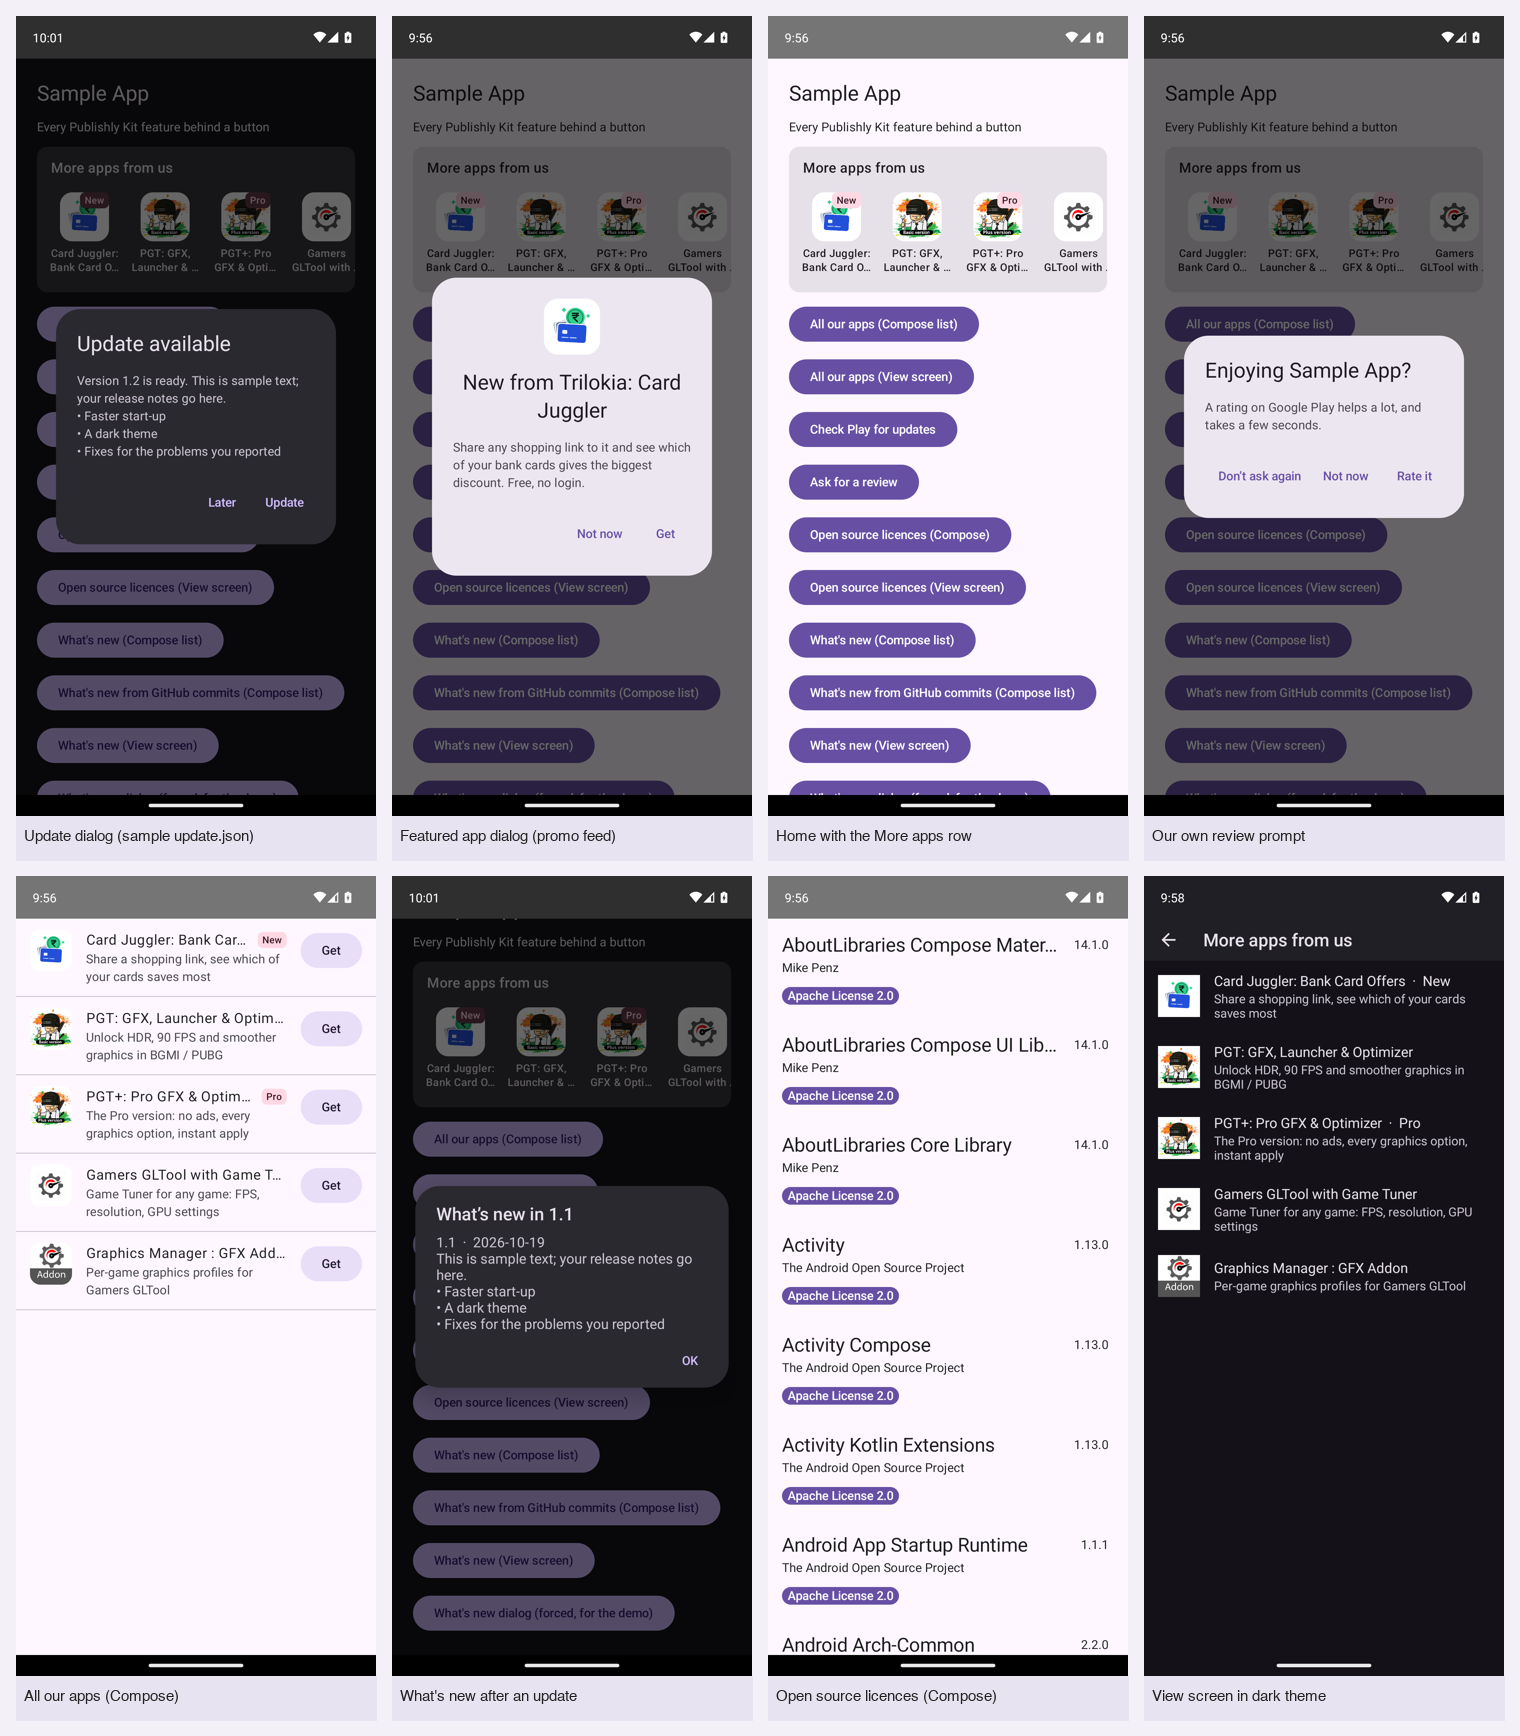
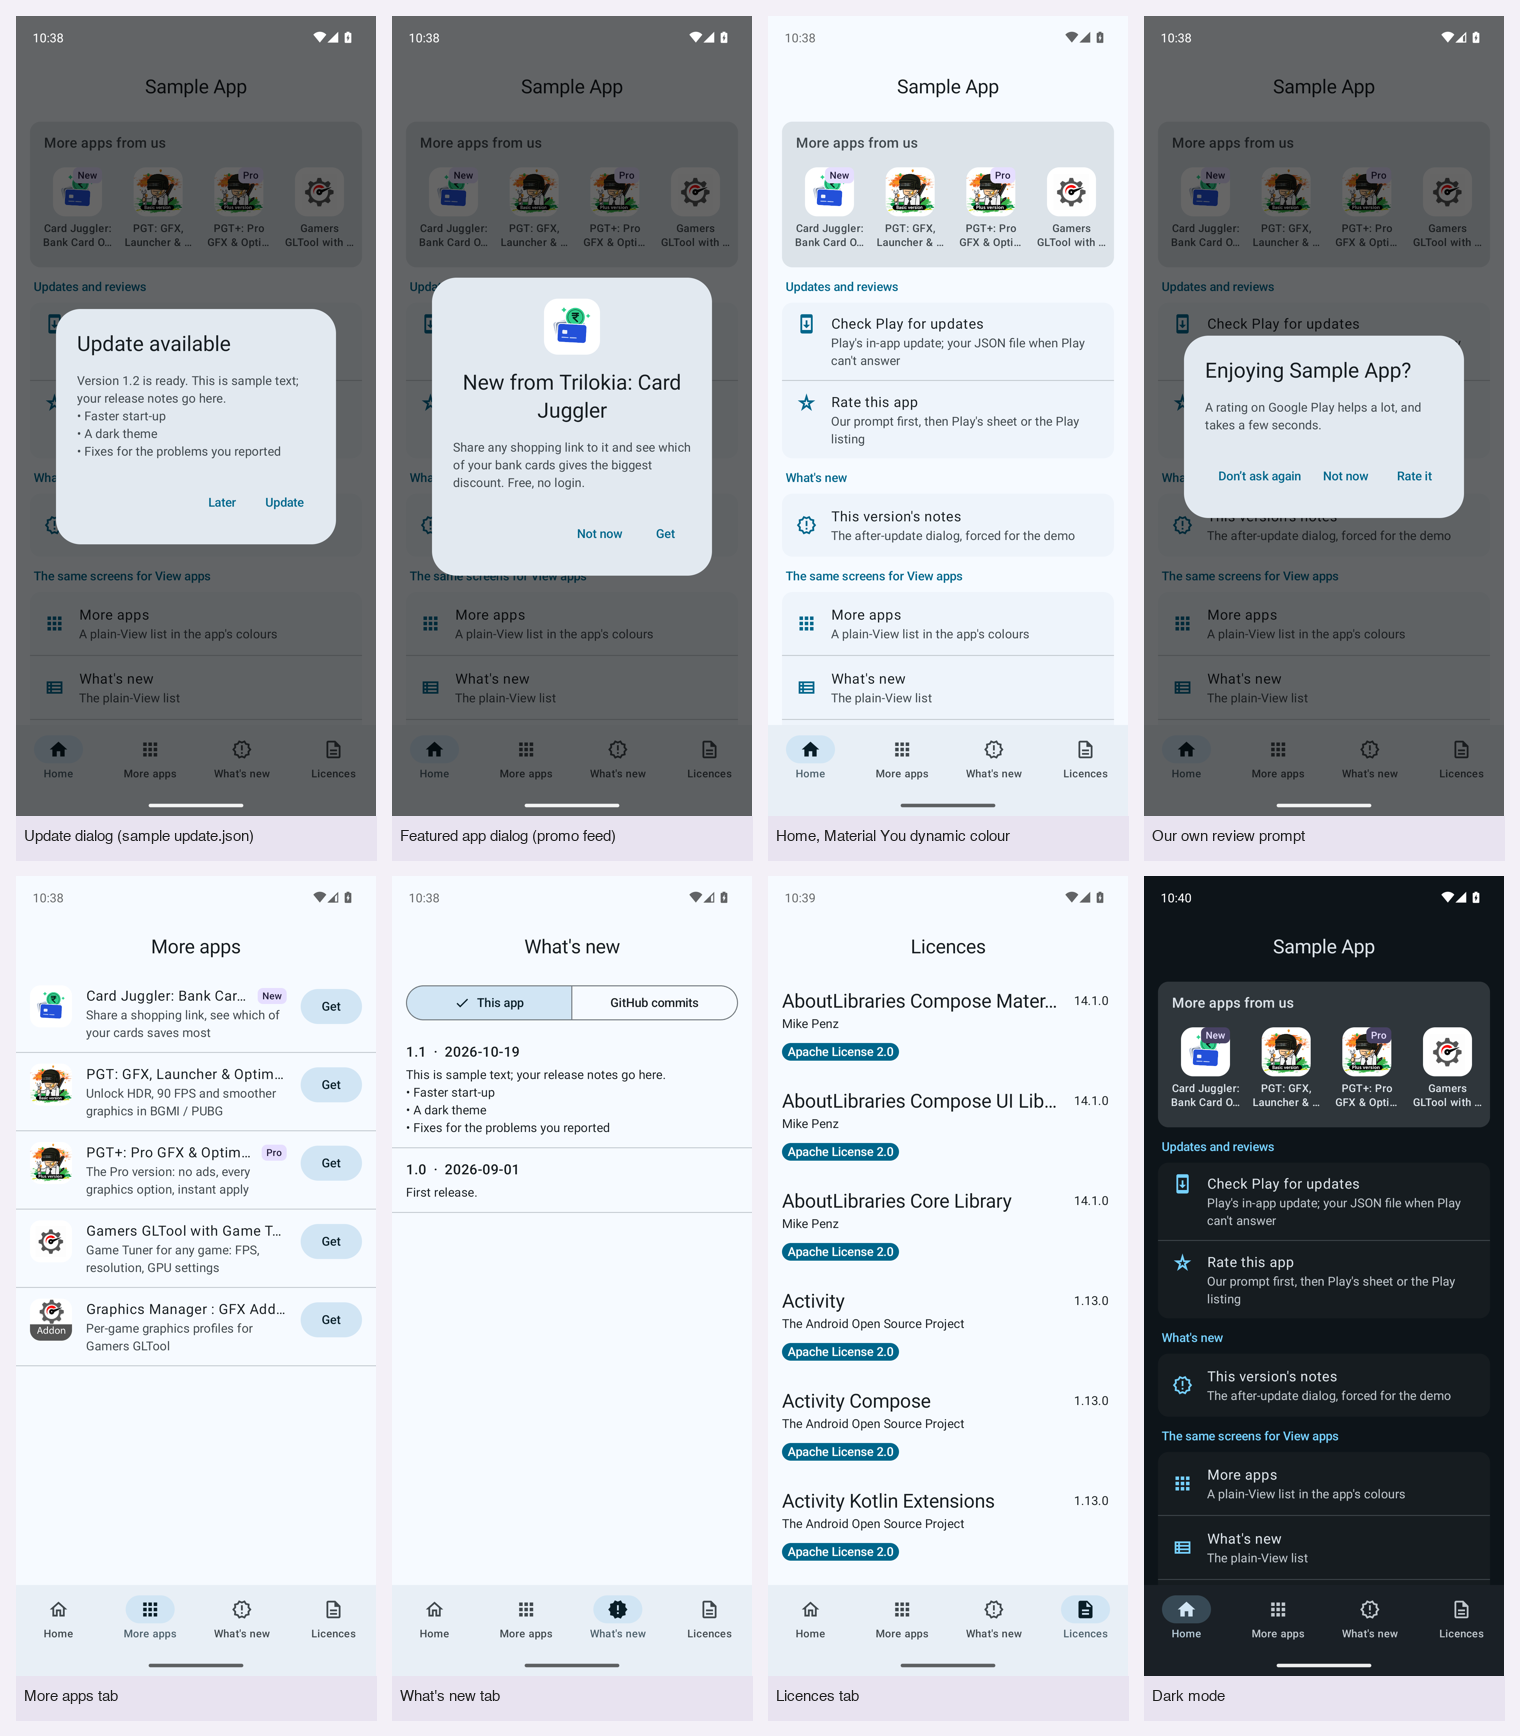
Describe the Material You sample in the README and refresh the preview montage

diff --git a/README.md b/README.md
@@ -6,7 +6,7 @@ The things every one of my Android apps needs, in one small library: in-app upda
 <tr>
 <td align="center"><img src="docs/gif/overview.gif" width="230" alt="The sample app: update dialog, More apps, review prompt, What's new, licences"><br><sub>Update dialog, More apps, review prompt, What's new, licences</sub></td>
 <td align="center"><img src="docs/gif/whats-new.gif" width="230" alt="What's new from the Play listing, from GitHub commits, the View screen and the dialog"><br><sub>What's new: Play listing, GitHub commits, View screen, dialog</sub></td>
-<td align="center"><img src="docs/gif/theme-light-dark.gif" width="230" alt="The View screens and dialogs follow the app's Compose theme in light and dark mode"><br><sub>One theme for Compose and View screens, light and dark</sub></td>
+<td align="center"><img src="docs/gif/theme-light-dark.gif" width="230" alt="Material You: the sample in light and dark mode, Compose and View screens alike"><br><sub>Material You, light and dark, Compose and View screens alike</sub></td>
 </tr>
 </table>
 
@@ -450,19 +450,20 @@ KitTheme.colors = KitColors(
 
 ## 11. The sample app
 
-`./gradlew :sample:installDebug` puts "Sample App" on the phone: one screen with every feature behind a button. It needs no server of its own: the update file and the release notes are sample text shipped in `sample/src/main/assets/` (the update file offers 1.2 to this 1.1 build, so the update dialog shows), the promo feed is the real Trilokia one (apps already installed on the phone are left out), and the second "What's new" list reads a public GitHub repo's commits.
+`./gradlew :sample:installDebug` puts "Sample App" on the phone: a Material You app laid out the Now in Android way, with the wallpaper's colours on Android 12 and up (a branded teal on older phones), a top app bar, and bottom navigation between four tabs. It needs no server of its own: the update file and the release notes are sample text shipped in `sample/src/main/assets/` (the update file offers 1.2 to this 1.1 build, so the update dialog shows), the promo feed is the real Trilokia one (apps already installed on the phone are left out), and the "GitHub commits" switch on the What's new tab reads a public repo.
 
-| Button | Shows |
+| Where | Shows |
 | --- | --- |
-| All our apps (Compose list / View screen) | `MoreAppsList` / `promos.openList` |
-| Check Play for updates | `playUpdates.checkNow`, reports the result in a toast |
-| Ask for a review | `ReviewAsk`, always due here: our prompt, then Play's sheet or the Play listing |
-| Open source licences (Compose / View screen) | `OpenSourceScreen` / `OpenSource.open` |
-| What's new / from GitHub commits | `WhatsNewList` on the bundled notes and on a GitHub repo |
-| What's new (View screen) | `whatsNew.openList` |
-| What's new dialog | `whatsNew.showDialog`, forced, so it shows every time |
+| Home: "More apps from us" row | `MoreAppsRow` |
+| Home: Check Play for updates | `updates.play.checkNow`, reports the result in a toast |
+| Home: Rate this app | `ReviewAsk`, always due here: our prompt, then Play's sheet or the Play listing |
+| Home: This version's notes | `whatsNew.showDialog`, forced, so it shows every time |
+| Home: the View rows | `promos.openList`, `whatsNew.openList`, `OpenSource.open`: the plain-View screens in the app's colours |
+| More apps tab | `MoreAppsList` |
+| What's new tab | `WhatsNewList` on the bundled notes, or on a GitHub repo's commits |
+| Licences tab | `OpenSourceScreen` |
 
-The update dialog, the featured-app dialog and the automatic what's-new dialog appear on launch when they are due. Flip the phone's dark mode to see the theme follow.
+The update dialog, the featured-app dialog and the automatic what's-new dialog appear on launch when they are due. Flip the phone's dark mode, or change the wallpaper, to see every screen follow: `SampleTheme` in the sample is the whole theme setup, `SyncKitTheme()` inside it is what carries the colours to the View screens.
 
 ## 12. Build and test
 
